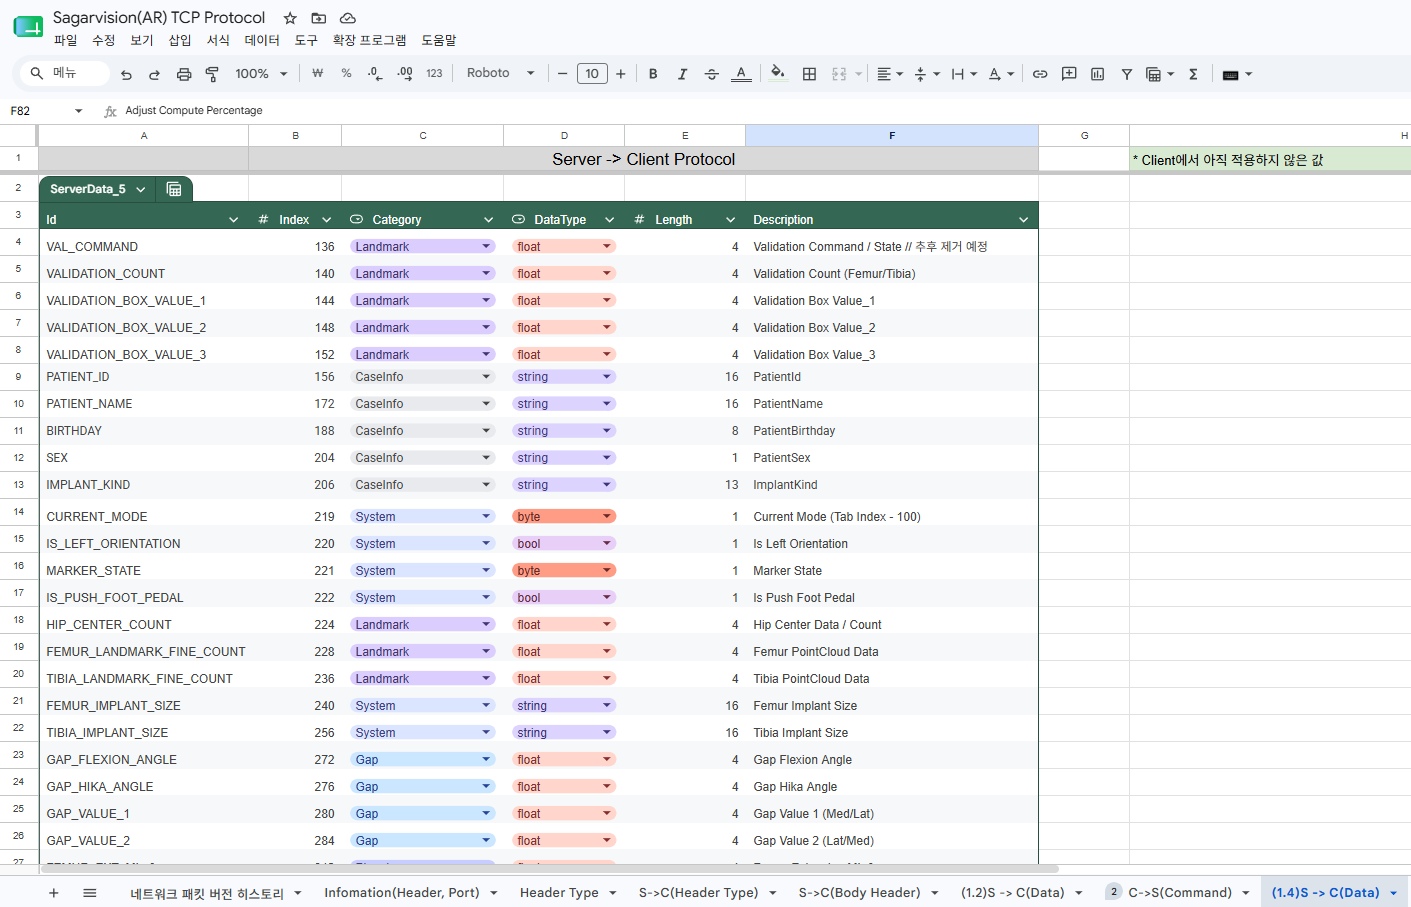
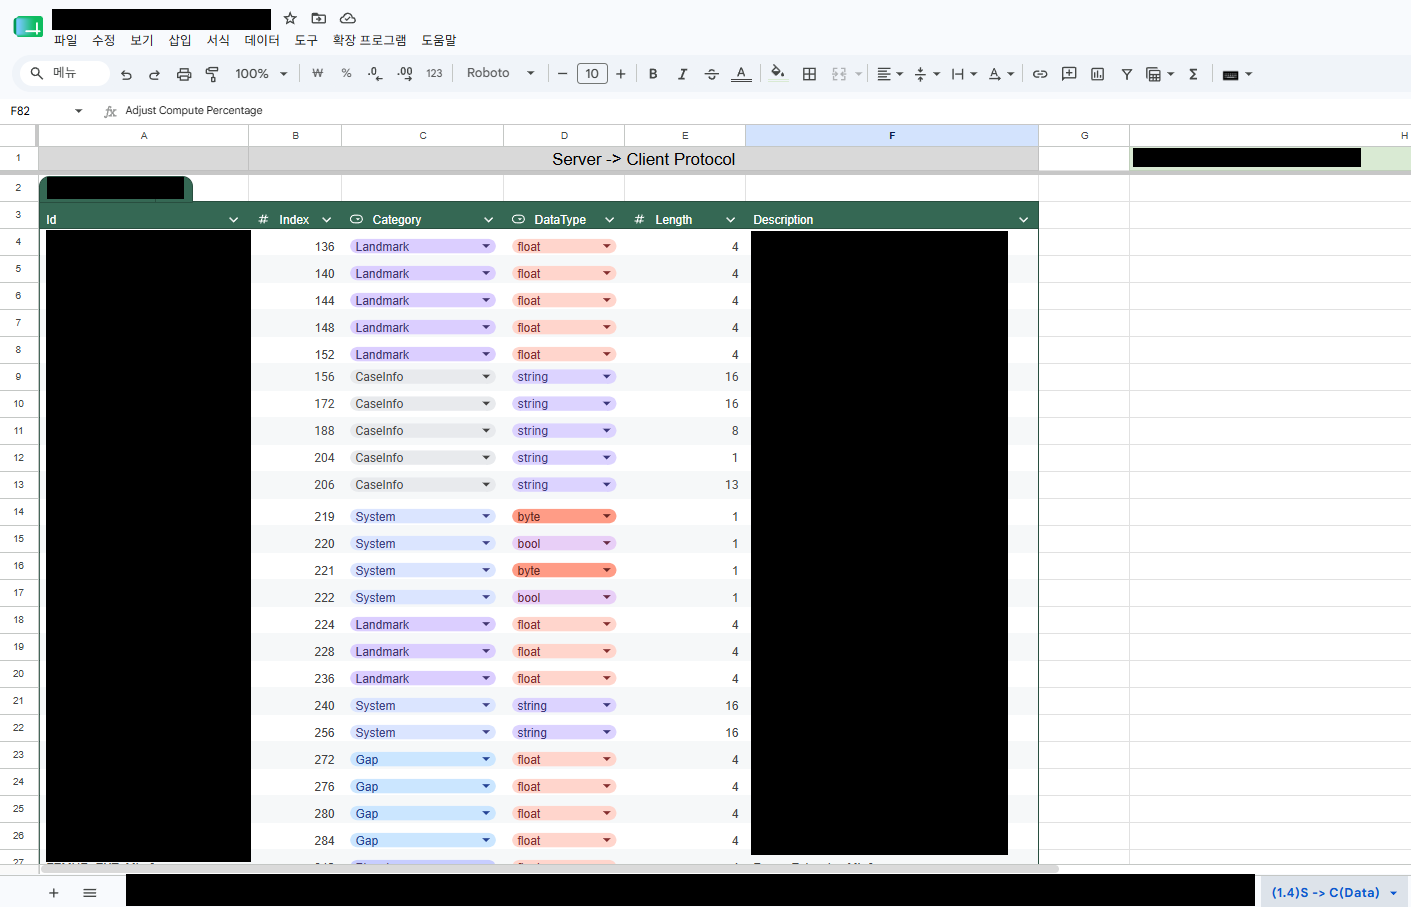
[Update] TCP 이미지 민감 정보 숨김 처리 및 스크롤 애니메이션 추가

Changed region(s): [[0.0312, 0.1852, 0.9043, 1.0], [0.7796, 0.1544, 0.9667, 0.1852], [0.0312, 0.0, 0.2183, 0.0309]]

diff --git a/src/App.jsx b/src/App.jsx
@@ -305,9 +305,12 @@ function MarkdownContent({ markdown }) {
 function useScrollProgress() {
   const [progress, setProgress] = useState(0);
   const [activeSection, setActiveSection] = useState("");
+  const [isAtPageTop, setIsAtPageTop] = useState(true);
 
   useEffect(() => {
     const onScroll = () => {
+      setIsAtPageTop((window.scrollY || 0) <= 2);
+
       const hero = document.querySelector(".hero");
       if (hero) {
         const rect = hero.getBoundingClientRect();
@@ -344,7 +347,7 @@ function useScrollProgress() {
     };
   }, []);
 
-  return { progress, activeSection };
+  return { progress, activeSection, isAtPageTop };
 }
 
 function LanguageToggle({ language, onLanguageChange }) {
@@ -449,7 +452,7 @@ function Header({ progress, activeSection, language, text }) {
   );
 }
 
-function Hero({ progress, text, language }) {
+function Hero({ progress, text, language, showScrollCue }) {
   const heroVideoRefs = useRef([]);
   const isMobileHeroViewport = useIsMobileHeroViewport();
   const [heroVideoSlots, setHeroVideoSlots] = useState([0, 1]);
@@ -464,6 +467,13 @@ function Hero({ progress, text, language }) {
   const scale = 1 - eased * endScale;
   const translateY = eased * 30;
   const headsetOpacity = isMobileHeroViewport || eased === 0 ? 0 : Math.min(Math.max(eased / 0.05, 0), 1);
+  const scrollToProjects = () => {
+    const prefersReducedMotion = window.matchMedia("(prefers-reduced-motion: reduce)").matches;
+    document
+      .getElementById("featuredproject")
+      ?.scrollIntoView({ behavior: prefersReducedMotion ? "auto" : "smooth", block: "start" });
+  };
+
   const playNextHeroVideo = () => {
     if (isMobileHeroViewport) return;
     if (transitionHeroVideoSlot !== null) return;
@@ -644,10 +654,19 @@ function Hero({ progress, text, language }) {
                   />
                 </div>
               </div>
-              <p className="scroll-down">
-                {text.hero.scroll}
-                <i className="bi bi-mouse" />
-              </p>
+              <button
+                className={`scroll-cue ${showScrollCue ? "" : "is-hidden"}`}
+                type="button"
+                onClick={scrollToProjects}
+                aria-label={text.hero.scroll}
+                title={text.hero.scroll}
+              >
+                <span className="scroll-cue-arrow" aria-hidden="true">
+                  <i className="bi bi-chevron-down" />
+                  <i className="bi bi-chevron-down" />
+                </span>
+                <span className="scroll-cue-label">{text.hero.scroll}</span>
+              </button>
             </div>
           </div>
           <div className="headset" style={{ opacity: headsetOpacity }} aria-hidden="true">
@@ -1181,7 +1200,7 @@ function Footer({ text }) {
 export default function App() {
   const [language, setLanguage] = useState(getInitialLanguage);
   const [route, setRoute] = useState(getCurrentHashRoute);
-  const { progress, activeSection } = useScrollProgress();
+  const { progress, activeSection, isAtPageTop } = useScrollProgress();
   const reducedMotion = useMemo(
     () => typeof window !== "undefined" && window.matchMedia("(prefers-reduced-motion: reduce)").matches,
     [],
@@ -1264,7 +1283,7 @@ export default function App() {
           </>
         ) : (
           <>
-            <Hero progress={heroProgress} text={text} language={language} />
+            <Hero progress={heroProgress} text={text} language={language} showScrollCue={isAtPageTop} />
             <FeaturedProjects language={language} text={text} />
             <SideProjects language={language} text={text} />
             <TechStack language={language} text={text} />

diff --git a/src/styles.css b/src/styles.css
@@ -419,10 +419,109 @@ a {
   gap: clamp(2.5rem, 6vw, 6rem);
 }
 
-.hero .scene .vr-container .vr-world .hero-section .scroll-down {
-  font-size: var(--xsmall-font-size);
-  color: rgba(6, 24, 51, 0.78);
-  margin: 0;
+.hero .scene .vr-container .vr-world .hero-section .scroll-cue {
+  --cue-size: 3.4rem;
+  position: relative;
+  display: grid;
+  place-items: center;
+  width: var(--cue-size);
+  height: var(--cue-size);
+  padding: 0;
+  border: 0;
+  border-radius: 999px;
+  background: transparent;
+  color: var(--hero-ink);
+  box-shadow: none;
+  cursor: pointer;
+  opacity: 1;
+  transform: translateY(0);
+  animation: scrollCueFloat 1.65s cubic-bezier(0.45, 0, 0.2, 1) infinite;
+  transition: opacity 0.42s ease, transform 0.42s ease, box-shadow 0.24s ease;
+}
+
+.hero .scene .vr-container .vr-world .hero-section .scroll-cue::before {
+  content: "";
+  position: absolute;
+  inset: -0.65rem;
+  z-index: -1;
+  border-radius: inherit;
+  background:
+    radial-gradient(ellipse at 38% 28%, rgba(255, 255, 255, 0.7) 0%, rgba(243, 250, 255, 0.46) 36%, rgba(243, 250, 255, 0.18) 62%, transparent 78%),
+    radial-gradient(ellipse at 60% 62%, rgba(230, 243, 255, 0.44) 0%, rgba(230, 243, 255, 0.2) 44%, transparent 76%);
+  filter: blur(14px);
+  opacity: 0.96;
+  transform: scale(1.08);
+}
+
+.hero .scene .vr-container .vr-world .hero-section .scroll-cue:hover {
+  box-shadow: none;
+}
+
+.hero .scene .vr-container .vr-world .hero-section .scroll-cue:hover::before {
+  opacity: 1;
+  transform: scale(1.14);
+}
+
+.hero .scene .vr-container .vr-world .hero-section .scroll-cue:focus-visible {
+  outline: none;
+  box-shadow: 0 0 0 4px rgba(13, 110, 253, 0.22), 0 0.95rem 2rem rgba(13, 110, 253, 0.18);
+}
+
+.hero .scene .vr-container .vr-world .hero-section .scroll-cue.is-hidden {
+  animation-name: none;
+  opacity: 0;
+  pointer-events: none;
+  transform: translateY(0.75rem);
+}
+
+.hero .scene .vr-container .vr-world .hero-section .scroll-cue-arrow {
+  display: grid;
+  justify-items: center;
+  line-height: 1;
+}
+
+.hero .scene .vr-container .vr-world .hero-section .scroll-cue-arrow i {
+  display: block;
+  height: 0.92rem;
+  font-size: 1.78rem;
+  font-weight: 900;
+  color: var(--hero-blue);
+  -webkit-text-stroke: 0.075rem currentColor;
+  text-shadow: 0 0.18rem 0.42rem rgba(13, 110, 253, 0.22);
+}
+
+.hero .scene .vr-container .vr-world .hero-section .scroll-cue-arrow i:first-child {
+  opacity: 0.42;
+  transform: translateY(0.26rem);
+}
+
+.hero .scene .vr-container .vr-world .hero-section .scroll-cue-arrow i:last-child {
+  opacity: 0.9;
+}
+
+.hero .scene .vr-container .vr-world .hero-section .scroll-cue-label {
+  position: absolute;
+  width: 1px;
+  height: 1px;
+  padding: 0;
+  margin: -1px;
+  overflow: hidden;
+  clip: rect(0, 0, 0, 0);
+  white-space: nowrap;
+  border: 0;
+}
+
+@keyframes scrollCueFloat {
+  0%,
+  100% {
+    opacity: 0.72;
+    transform: translateY(-0.22rem);
+  }
+
+  48% {
+    opacity: 1;
+    transform: translateY(0.42rem);
+  }
 }
 
 .hero .scene .vr-container .vr-world .hero-section .hero-content .left-side {
